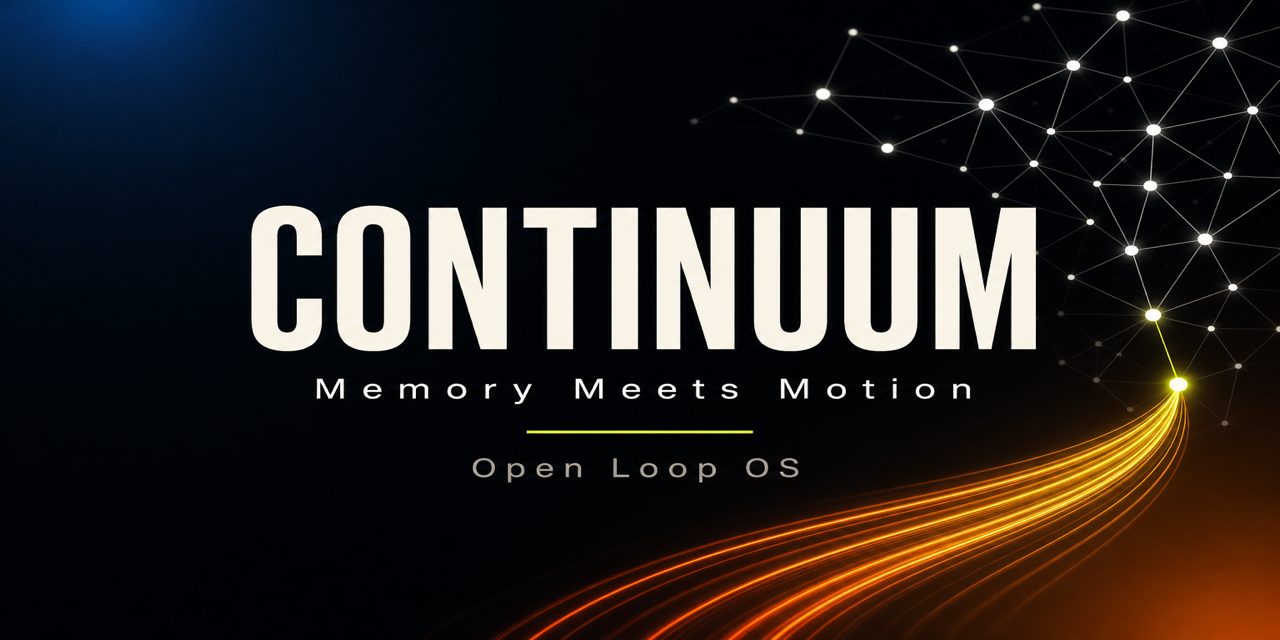
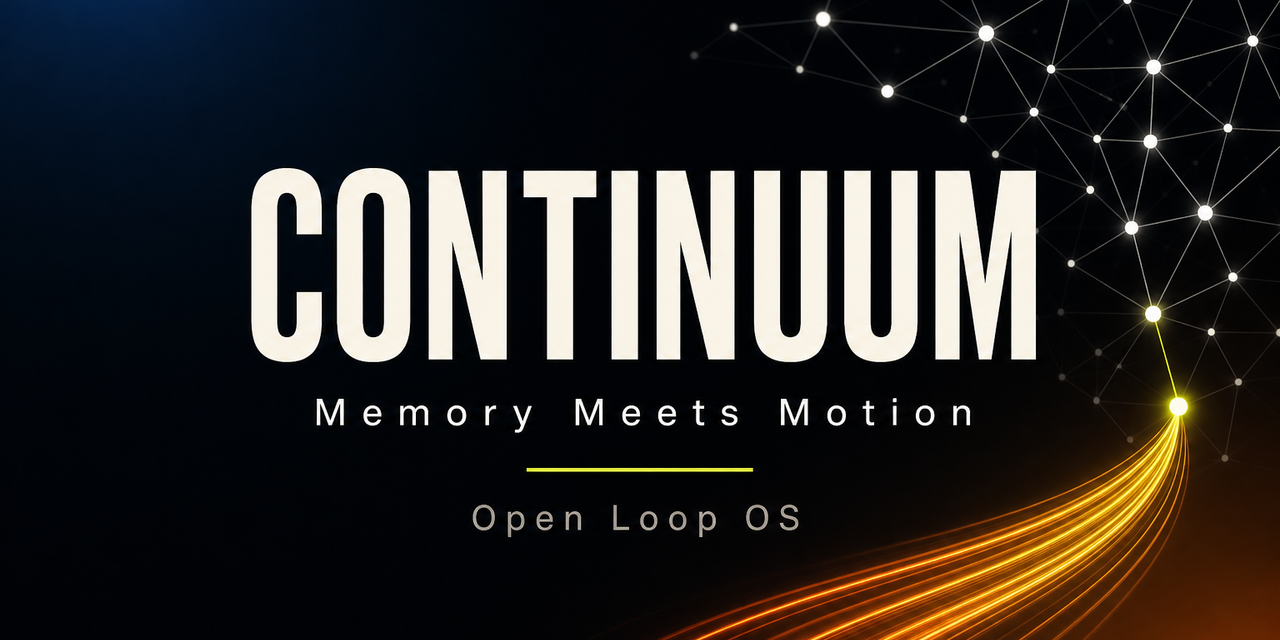
Polish Continuum branding without win claims.
Refresh OG art, soften pitch copy, and keep repo messaging accurate for Memory Meets Motion.

diff --git a/docs/PRESENTATION.md b/docs/PRESENTATION.md
@@ -21,7 +21,7 @@ Local demo: **http://localhost:3000**
 ## Script
 
 ### 0:00 — Hook
-“This is **Continuum** — the **Open Loop OS**. Memory that doesn’t just recall… it **burns unfinished work**.”
+“This is **Continuum** — the **Open Loop OS**. Memory that doesn’t just recall — it **closes unfinished work**.”
 
 ### 0:20 — Problem
 “Every team accrues **Open Loop Debt**: meetings, promises, renewals. Chatbots summarize it. Agents sometimes act. Almost nothing **measures** that debt or **closes** it with durable memory.”
